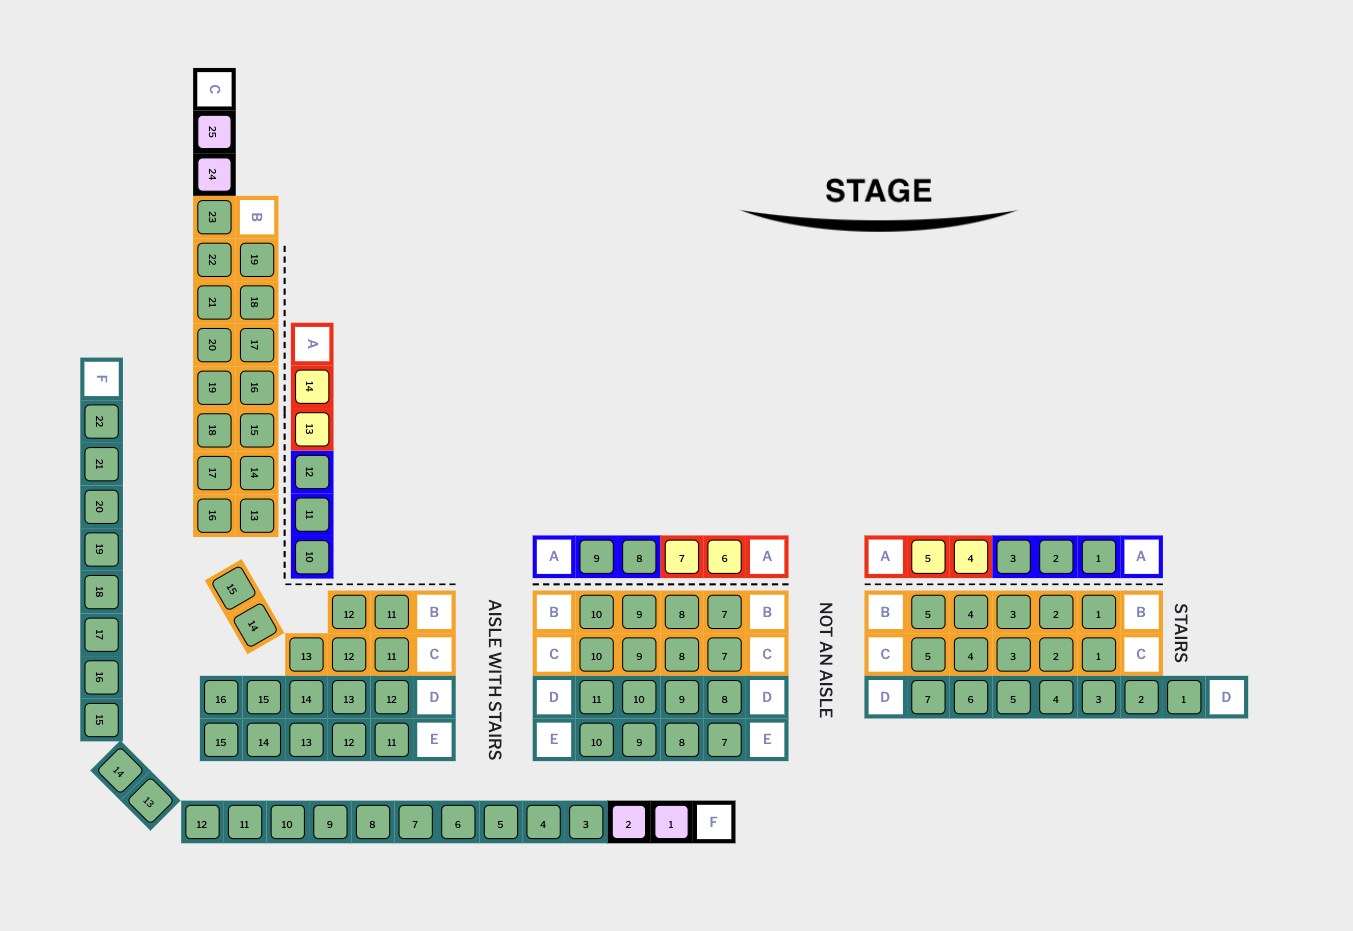
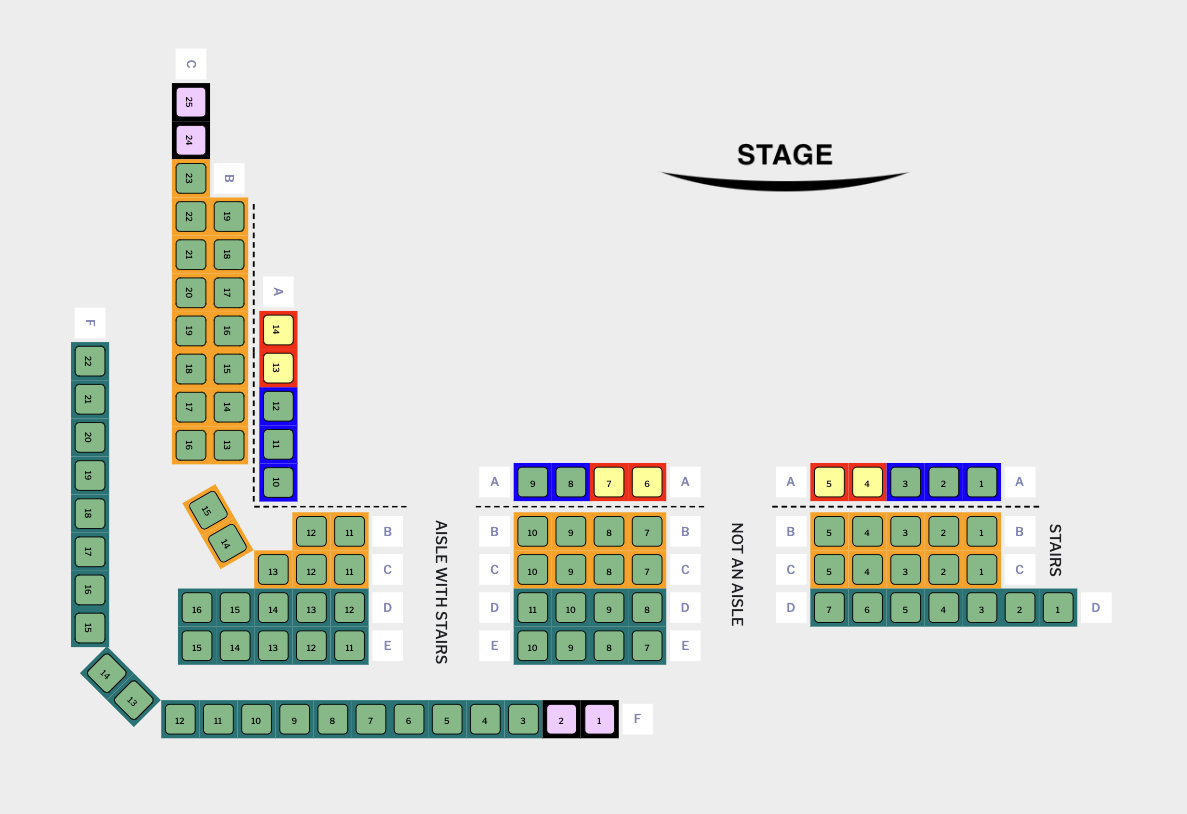
new venues

Changed region(s): [[0.0623, 0.0614, 0.9351, 0.9214], [0.5611, 0.1536, 0.7481, 0.2764], [0.0623, 0.3686, 0.0935, 0.7985]]

diff --git a/Completed/35619.html b/Completed/35619.html
@@ -1,0 +1,105 @@
+<!-- Lakeview Newsies Jf. -->
+<style>
+  .last-cell > div > table > tbody > tr > td:nth-last-child(1),
+  .last-cell > div > table > tr > td:nth-last-child(1) {
+    display: none;
+    visibility: hidden;
+  }
+  .first-cell > div > table > tbody > tr > td:nth-child(1),
+  .first-cell > div > table > tr > td:nth-child(1) {
+    display: none;
+    visibility: hidden;
+  }
+</style>
+
+<table width="100%" border="0" cellspacing="0" cellpadding="0" align="center">
+  <!-- Stage Image -->
+  <tr>
+    <td>
+      <div align="center">
+        <img
+          src="https://s3.amazonaws.com/prdv2-dt-client/seating_images/stage.png"
+          alt="STAGE"
+          width="300"
+          height="80"
+        />
+      </div>
+    </td>
+  </tr>
+
+  <tr>
+    <td>
+      <div align="center">
+        <img
+          src="https://s3.amazonaws.com/prdv2-dt-client/seating_images/pixel.png"
+          width="1"
+          height="10"
+        />
+      </div>
+    </td>
+  </tr>
+
+  <!-- ALL -->
+  <tr>
+    <td>
+      <div align="center">
+        <table border="0" cellspacing="0" cellpadding="0" align="center">
+          <!-- Names -->
+          <tr>
+            <td>
+              <div align="center">{{{ sectionNames.46688 }}}</div>
+            </td>
+            <td rowspan="2">
+              <div align="center">
+                <img
+                  src="https://s3.amazonaws.com/prdv2-dt-client/seating_images/pixel.png"
+                  width="82"
+                  height="1"
+                />
+              </div>
+            </td>
+            <td>
+              <div align="center" style="position: relative; top: 80px">
+                {{{ sectionNames.46689 }}}
+              </div>
+            </td>
+            <td rowspan="2">
+              <div align="center">
+                <img
+                  src="https://s3.amazonaws.com/prdv2-dt-client/seating_images/pixel.png"
+                  width="82"
+                  height="1"
+                />
+              </div>
+            </td>
+            <td>
+              <div align="center">{{{ sectionNames.46690 }}}</div>
+            </td>
+          </tr>
+
+          <!-- Seats -->
+          <tr>
+            <td>
+              <div class="last-cell" align="center">
+                {{{ sectionsMarkup.46688 }}}
+              </div>
+            </td>
+            <td valign="bottom">
+              <div align="center">{{{ sectionsMarkupNoRowNames.46689 }}}</div>
+            </td>
+            <td>
+              <div class="first-cell" align="center">
+                {{{ sectionsMarkup.46690 }}}
+              </div>
+            </td>
+          </tr>
+          <tr>
+            <td colspan="5">
+              <div align="center">{{{ sectionsMarkup.46691 }}}</div>
+            </td>
+          </tr>
+        </table>
+      </div>
+    </td>
+  </tr>
+</table>

diff --git a/Completed/35553.html b/Completed/35553.html
@@ -1,0 +1,96 @@
+<!-- MVCS-Frozen -->
+<table width="100%" border="0" cellspacing="0" cellpadding="0" align="center">
+  <!-- Stage Image -->
+  <tr>
+    <td>
+      <div align="center">
+        <img
+          src="https://s3.amazonaws.com/prdv2-dt-client/seating_images/stage.png"
+          alt="STAGE"
+          width="300"
+          height="80"
+        />
+      </div>
+    </td>
+  </tr>
+
+  <tr>
+    <td>
+      <div align="center">
+        <img
+          src="https://s3.amazonaws.com/prdv2-dt-client/seating_images/pixel.png"
+          width="1"
+          height="10"
+        />
+      </div>
+    </td>
+  </tr>
+
+  <!-- ALL -->
+  <tr>
+    <td>
+      <div align="center">
+        <table align="center">
+          <!-- Names -->
+          <tr>
+            <td>
+              <div align="center">{{{ sectionNames.46683 }}}</div>
+            </td>
+            <td rowspan="4">
+              <div align="center">
+                <img
+                  src="https://s3.amazonaws.com/prdv2-dt-client/seating_images/pixel.png"
+                  width="40"
+                  height="1"
+                />
+              </div>
+            </td>
+            <td>
+              <div align="center">{{{ sectionNames.46684 }}}</div>
+            </td>
+            <td rowspan="4">
+              <div align="center">
+                <img
+                  src="https://s3.amazonaws.com/prdv2-dt-client/seating_images/pixel.png"
+                  width="40"
+                  height="1"
+                />
+              </div>
+            </td>
+            <td>
+              <div align="center">{{{ sectionNames.46685 }}}</div>
+            </td>
+          </tr>
+
+          <!-- Front Seats -->
+          <tr>
+            <td valign="top">
+              <div align="center">{{{ sectionsMarkup.46683 }}}</div>
+            </td>
+            <td valign="top" rowspan="2">
+              <div align="center">{{{ sectionsMarkup.46684 }}}</div>
+            </td>
+            <td rowspan="3">
+              <div align="center">{{{ sectionsMarkup.46685 }}}</div>
+            </td>
+          </tr>
+
+          <!-- Middle Seats -->
+          <tr>
+            <td valign="top">
+              <div align="center" style="position: relative; top: 21px;">{{{ sectionsMarkup.46686 }}}</div>
+            </td>
+          </tr>
+
+          <!-- Back Seats -->
+          <tr>
+            <td><div></div></td>
+            <td valign="bottom">
+              <div align="right">{{{ sectionsMarkup.46687 }}}</div>
+            </td>
+          </tr>
+        </table>
+      </div>
+    </td>
+  </tr>
+</table>

diff --git a/Completed/35604.html b/Completed/35604.html
@@ -15,24 +15,24 @@
     display: none;
     visibility: hidden;
   }
-  .row-blue > div > table > tbody > tr,
-  .row-blue > div > table > tr {
+  .row-blue > div > table > tbody > tr > td:has(> .seatCharts-seat),
+  .row-blue > div > table > tr > td:has(> .seatCharts-seat) {
     background-color: blue;
   }
-  .row-red > div > table > tbody > tr,
-  .row-red > div > table > tr {
+  .row-red > div > table > tbody > tr > td:has(> .seatCharts-seat),
+  .row-red > div > table > tr > td:has(> .seatCharts-seat) {
     background-color: red;
   }
-  .row-black > div > table > tbody > tr,
-  .row-black > div > table > tr {
+  .row-black > div > table > tbody > tr > td:has(> .seatCharts-seat),
+  .row-black > div > table > tr > td:has(> .seatCharts-seat) {
     background-color: black;
   }
-  .row-orange > div > table > tbody > tr,
-  .row-orange > div > table > tr {
+  .row-orange > div > table > tbody > tr > td:has(> .seatCharts-seat),
+  .row-orange > div > table > tr > td:has(> .seatCharts-seat) {
     background-color: orange;
   }
-  .row-teal > div > table > tbody > tr,
-  .row-teal > div > table > tr {
+  .row-teal > div > table > tbody > tr > td:has(> .seatCharts-seat),
+  .row-teal > div > table > tr > td:has(> .seatCharts-seat) {
     background-color: teal;
   }
 </style>
